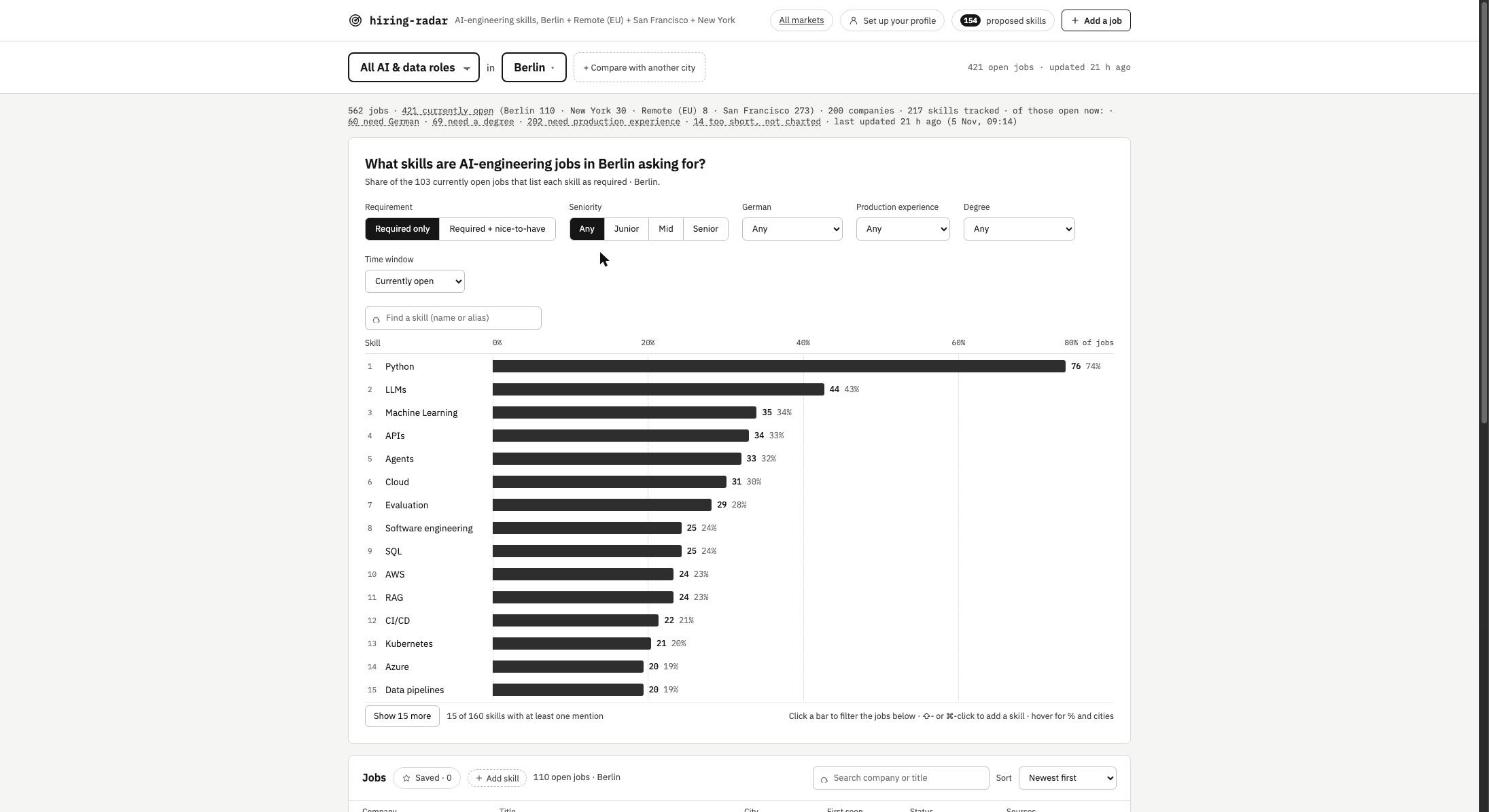
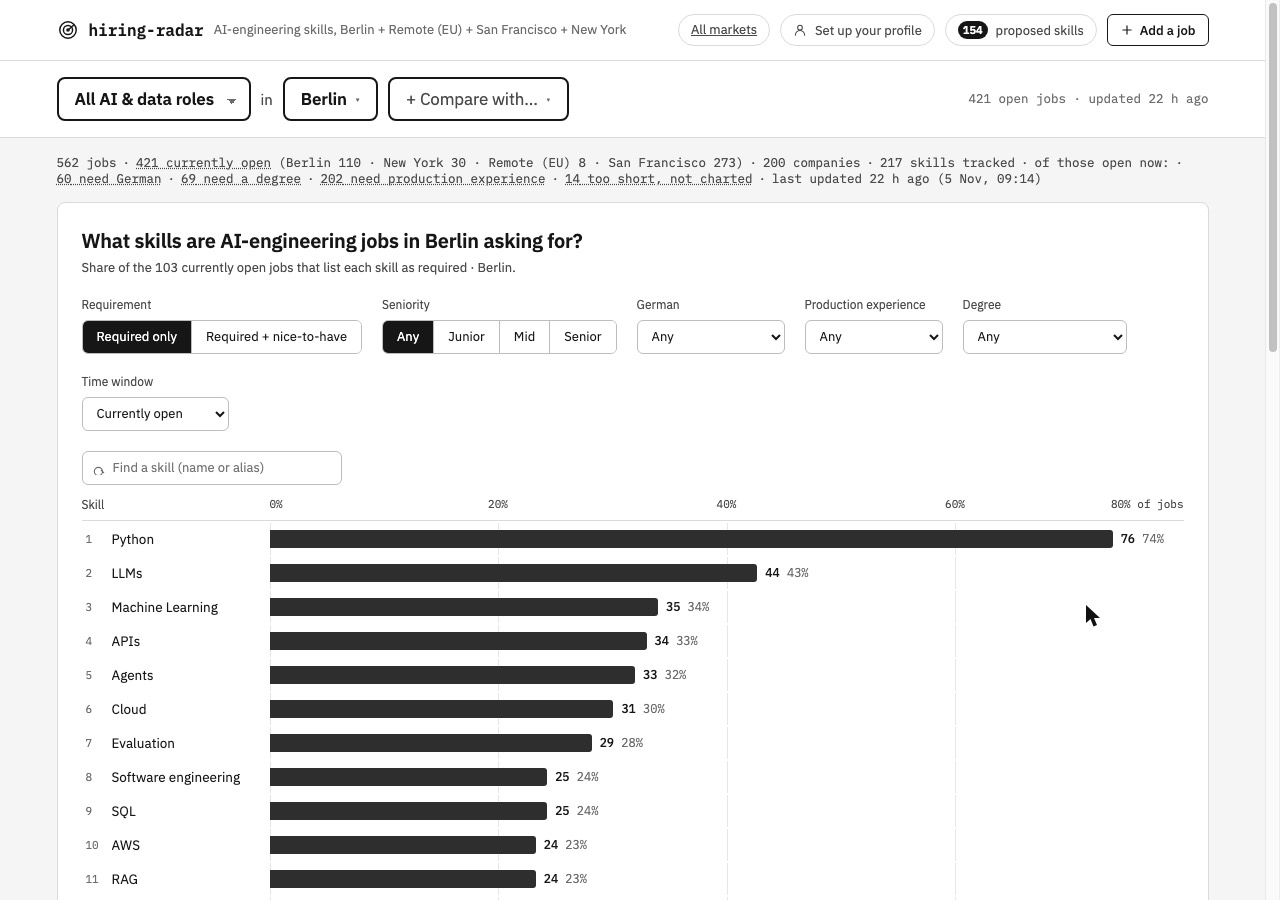
HIR-191: retake the documented screens; add the 1440 and compare-dropdown views
The committed screens showed the pre-HIR-191 home screen and the old dashed
compare button, so they no longer matched the app. Retaken at a 1280 px
viewport (390 px for the phone) against the real database, plus two new ones
the ticket asks for: the landing view at 1440 px and the compare dropdown open.

diff --git a/docs/screens/README.md b/docs/screens/README.md
@@ -1,12 +1,18 @@
 # Dashboard screens
 
-Taken 6 Nov 2026 against the real database, for HIR-188. These are the built screens; the
-grey drawings they were built from are in [`../wireframes/`](../wireframes/).
+Retaken 6 Nov 2026 against the real database, for HIR-191, which centred the landing view
+and turned "Compare with another city" into a dropdown. The grey drawings these were built
+from are in [`../wireframes/`](../wireframes/).
+
+Desktop shots are at a 1280 px viewport unless the name says otherwise; the phone shot is
+at 390 px.
 
 | file | screen |
 |---|---|
-| 01-home.jpg | First visit, no city chosen: query bar + market grid |
-| 02-dashboard.jpg | A city's dashboard — the query bar replaced the city tabs |
+| 01-home.jpg | First visit, no city chosen: centred query bar + one market grid |
+| 02-dashboard.jpg | A city's dashboard — left-aligned, the query bar at its normal size |
 | 03-city-picker.jpg | City picker open: search, country groups, open-job counts |
 | 04-compare.jpg | Compare mode with three cities |
-| 05-phone.jpg | Phone width (390 px) |
+| 05-phone.jpg | Phone width (390 px), landing view |
+| 06-compare-dropdown.jpg | "+ Compare with…" open, the chosen city left out of the list |
+| 07-home-1440.jpg | The landing view at 1440 px — still one row of four |
